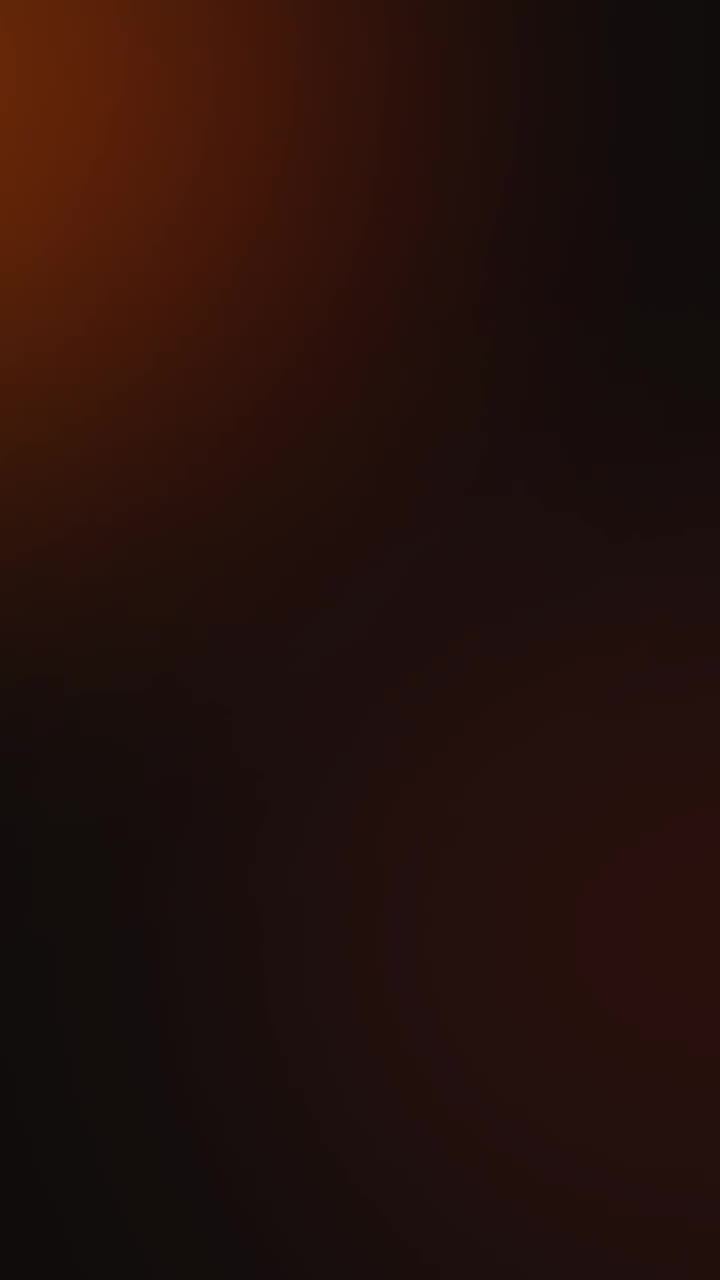
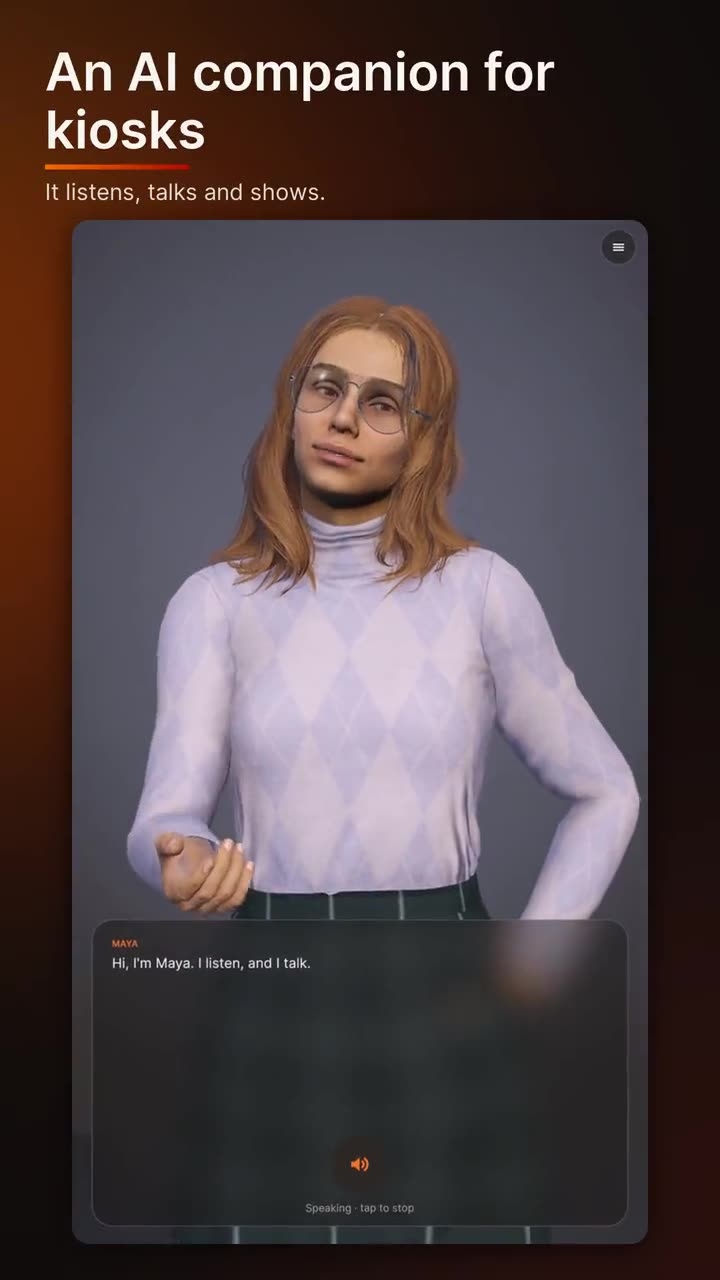
altbot: plain heading font, true video proportions
- headings use Inter Tight instead of Bricolage Grotesque
- hero promo and demo kiosk are exact 9:16 portrait screens
- landscape film is never cropped; new poster frames for both promos

Claude-Session: https://claude.ai/code/session_01HpiNXeb8rYUajQFhR8yF88

diff --git a/src/app/work/[slug]/altbot.css b/src/app/work/[slug]/altbot.css
@@ -3,6 +3,7 @@
    (dark glass + altcore orange) only ever appears inside a device frame,
    so it never mixes up with the page around it. */
 .ab{
+  --ab-head:"Inter Tight",Inter,"Helvetica Neue",Arial,sans-serif;--f-display:var(--ab-head);
   --bg:#f3f1ec;--surface:#ffffff;--surface2:#eeece6;--ink:#14161a;--muted:#5d626b;--line:rgba(20,22,26,.11);
   --acc:#2b50ff;--acc2:#7a3cff;--ok:#0f9d63;--stop:#d9342b;--tint:rgba(43,80,255,.07);--tint-line:rgba(43,80,255,.28);
   --grad:linear-gradient(120deg,var(--acc),var(--acc2));
@@ -20,7 +21,7 @@
   color-scheme:dark;color:var(--ink)
 }
 .ab-wrap{max-width:1200px;margin:0 auto;padding-left:max(16px,env(safe-area-inset-left,0px));padding-right:max(16px,env(safe-area-inset-right,0px))}
-.ab h1,.ab h2,.ab h3{font-family:"Bricolage Grotesque",var(--f-display);letter-spacing:-.035em;text-wrap:balance;margin:0}
+.ab h1,.ab h2,.ab h3{font-family:var(--ab-head);font-weight:700;letter-spacing:-.03em;text-wrap:balance;margin:0}
 .ab a:focus-visible,.ab button:focus-visible,.ab input:focus-visible,.ab [tabindex]:focus-visible{outline:2px solid var(--acc);outline-offset:3px}
 .ab-kick{display:inline-block;font-family:var(--f-mono);font-size:12px;letter-spacing:.14em;text-transform:uppercase;color:var(--acc)}
 .ab-crumbs{display:flex;justify-content:space-between;align-items:center;gap:12px;padding-top:22px;font-family:var(--f-mono);font-size:12px;color:var(--muted)}
@@ -28,20 +29,20 @@
 
 /* hero */
 .ab-hero{display:grid;grid-template-columns:minmax(0,1.15fr) minmax(0,.85fr);gap:clamp(28px,5vw,72px);align-items:center;padding-top:clamp(36px,6vw,80px);padding-bottom:clamp(32px,5vw,56px)}
-.ab-hero h1{font-size:clamp(40px,5.6vw,82px);line-height:.98;font-weight:800;margin-top:14px}
+.ab-hero h1{font-size:clamp(40px,5.6vw,82px);line-height:.98;font-weight:700;margin-top:14px}
 .ab-hero h1 em{font-style:normal;background:var(--grad);-webkit-background-clip:text;background-clip:text;color:transparent}
 .ab-lede{margin:22px 0 0;font-size:clamp(17px,1.5vw,20px);line-height:1.6;color:var(--muted);max-width:52ch}
 .ab-hero-cta{display:flex;flex-wrap:wrap;gap:10px;margin-top:28px}
 .ab-btn{display:inline-flex;align-items:center;text-decoration:none;font-weight:600;font-size:15px;padding:12px 20px;border-radius:99px;background:var(--grad);color:#fff}
 .ab-btn.ghost{background:transparent;color:var(--ink);box-shadow:inset 0 0 0 1.5px var(--line)}
-.ab-tv{position:relative;margin:0 auto;width:min(100%,380px);aspect-ratio:9/16;border-radius:26px;padding:10px;background:#050505;box-shadow:0 0 0 1px rgba(0,0,0,.4),0 40px 90px -30px rgba(20,22,40,.5)}
-.ab-tv img{width:100%;height:100%;object-fit:cover;border-radius:18px;display:block}
+.ab-tv{position:relative;margin:0 auto;width:min(100%,360px);border-radius:34px;padding:10px;background:#050505;box-shadow:0 0 0 1px rgba(0,0,0,.4),0 40px 90px -30px rgba(20,22,40,.5)}
+
 @keyframes ab-float{0%,100%{transform:translateY(0)}50%{transform:translateY(-8px)}}
 
 .ab-facts{display:grid;grid-template-columns:repeat(4,minmax(0,1fr));margin:0;border-radius:22px;background:var(--surface);box-shadow:0 0 0 1px var(--line);overflow:hidden}
 .ab-facts div{padding:22px 24px;border-right:1px solid var(--line)}
 .ab-facts div:last-child{border-right:0}
-.ab-facts dt{font-family:"Bricolage Grotesque",var(--f-display);font-weight:800;font-size:clamp(28px,3vw,40px);letter-spacing:-.04em;background:var(--grad);-webkit-background-clip:text;background-clip:text;color:transparent}
+.ab-facts dt{font-family:var(--ab-head);font-weight:700;font-size:clamp(28px,3vw,40px);letter-spacing:-.04em;background:var(--grad);-webkit-background-clip:text;background-clip:text;color:transparent}
 .ab-facts dd{margin:6px 0 0;font-size:14px;line-height:1.4;color:var(--muted)}
 .ab-meta{display:flex;flex-wrap:wrap;gap:10px 36px;margin:20px 4px 0;font-size:14px}
 .ab-meta dt{font-family:var(--f-mono);font-size:11px;text-transform:uppercase;letter-spacing:.1em;color:var(--muted)}
@@ -50,7 +51,7 @@
 /* sections */
 .ab-sec{padding-top:clamp(80px,11vw,140px)}
 .ab-head{display:grid;gap:12px;max-width:780px;margin-bottom:clamp(26px,3.4vw,44px)}
-.ab-head h2{font-size:clamp(32px,4.2vw,58px);line-height:1;font-weight:800}
+.ab-head h2{font-size:clamp(32px,4.2vw,58px);line-height:1;font-weight:700}
 .ab-head p{margin:4px 0 0;font-size:18px;line-height:1.65;color:var(--muted)}
 .ab-card{background:var(--surface);border-radius:20px;padding:22px 24px;box-shadow:0 0 0 1px var(--line)}
 .ab-card h3{font-size:20px;font-weight:700;margin-bottom:8px}
@@ -68,7 +69,7 @@
 .ab-seg button.on{background:var(--grad);color:#fff;font-weight:600}
 .ab-demo-grid{display:grid;grid-template-columns:minmax(0,420px) minmax(0,1fr);gap:10px 16px;align-items:stretch}
 
-.ab-stage{position:relative;aspect-ratio:9/14;border-radius:24px;overflow:hidden;background:#24222a;box-shadow:0 0 0 10px #0b0b0c,0 0 0 11px rgba(0,0,0,.25),0 40px 80px -30px rgba(20,22,40,.6);margin:10px;display:flex;flex-direction:column;justify-content:flex-end}
+.ab-stage{position:relative;aspect-ratio:9/16;border-radius:24px;overflow:hidden;background:#24222a;box-shadow:0 0 0 10px #0b0b0c,0 0 0 11px rgba(0,0,0,.25),0 40px 80px -30px rgba(20,22,40,.6);margin:10px;display:flex;flex-direction:column;justify-content:flex-end}
 .ab-stage-bg{position:absolute;inset:0;background:url(/work/altbot/kiosk.webp) center 8%/cover no-repeat;transition:transform 1s cubic-bezier(.3,.8,.3,1),filter .6s}
 .ab-stage.room .ab-stage-bg{transform:translateY(20%) scale(.92);filter:brightness(.8)}
 .ab-stage.st-listening .ab-stage-bg{filter:brightness(1.05)}
@@ -80,7 +81,7 @@
 .ab-x{position:absolute;top:6px;right:8px;z-index:2;border:0;background:rgba(255,255,255,.1);color:var(--ink);width:28px;height:28px;border-radius:50%;cursor:pointer;font-size:16px;line-height:1}
 .ab-slide{aspect-ratio:16/9;border-radius:12px;padding:16px;display:grid;align-content:end;gap:4px;color:#1b1410}
 .ab-slide small{font-family:var(--f-mono);font-size:10px;opacity:.7;align-self:start;margin-bottom:auto}
-.ab-slide b{font-family:"Bricolage Grotesque",var(--f-display);font-size:26px;letter-spacing:-.03em;line-height:1}
+.ab-slide b{font-family:var(--ab-head);font-size:26px;letter-spacing:-.03em;line-height:1}
 .ab-slide span{font-size:12px}
 .ab-slide.s1{background:linear-gradient(135deg,#f4e6d4,#e8c9a5)}
 .ab-slide.s2{background:linear-gradient(135deg,#cfd9c7,#9fb391)}
@@ -88,7 +89,7 @@
 .ab-panel-nav{display:flex;align-items:center;justify-content:space-between;margin-top:8px;font-family:var(--f-mono);font-size:10px;color:var(--muted)}
 .ab-panel-nav button{border:0;background:rgba(255,255,255,.1);color:var(--ink);width:32px;height:32px;border-radius:50%;cursor:pointer;font-size:18px}
 .ab-form{display:grid;gap:8px;font-size:12px}
-.ab-form b{font-size:17px;font-family:"Bricolage Grotesque",var(--f-display)}
+.ab-form b{font-size:17px;font-family:var(--ab-head)}
 .ab-form label{display:grid;gap:4px;color:var(--muted)}
 .ab-form input{font:inherit;font-size:14px;color:var(--ink);background:rgba(255,255,255,.07);border:1px solid var(--line);border-radius:10px;padding:9px 10px;min-height:40px}
 .ab-form button{border:0;border-radius:99px;background:var(--grad);color:#fff;font:inherit;font-weight:600;font-size:14px;padding:10px;cursor:pointer;min-height:40px}
@@ -148,13 +149,13 @@
 .ab-offline .ab-head h2{font-size:clamp(34px,4.8vw,66px)}
 .ab-numbers{display:grid;grid-template-columns:repeat(4,minmax(0,1fr));gap:12px;margin-top:clamp(36px,5vw,56px)}
 .ab-numbers div{padding:20px;border-radius:18px;background:var(--tint);box-shadow:inset 0 0 0 1px var(--tint-line)}
-.ab-numbers b{display:block;font-family:"Bricolage Grotesque",var(--f-display);font-size:clamp(26px,2.8vw,36px);letter-spacing:-.04em}
+.ab-numbers b{display:block;font-family:var(--ab-head);font-size:clamp(26px,2.8vw,36px);letter-spacing:-.04em}
 .ab-numbers span{font-size:13px;color:var(--muted)}
 
 /* gate */
 .ab-gate{list-style:none;margin:0;padding:0;display:grid;gap:12px}
 .ab-gate li{display:grid;grid-template-columns:44px 1fr;gap:16px;padding:20px;border-radius:20px;background:var(--surface);box-shadow:0 0 0 1px var(--line)}
-.ab-gate li>span{width:44px;height:44px;border-radius:14px;display:grid;place-items:center;background:var(--grad);color:#fff;font-family:"Bricolage Grotesque",var(--f-display);font-weight:800;font-size:20px}
+.ab-gate li>span{width:44px;height:44px;border-radius:14px;display:grid;place-items:center;background:var(--grad);color:#fff;font-family:var(--ab-head);font-weight:700;font-size:20px}
 .ab-gate h3{font-size:20px;margin-bottom:6px}
 .ab-gate p{margin:0;font-size:15px;line-height:1.6;color:var(--muted)}
 
@@ -203,7 +204,7 @@
   .ab-hero,.ab-split{grid-template-columns:minmax(0,1fr)}
   .ab-tv{width:min(78%,340px)}
   .ab-demo-grid{grid-template-columns:minmax(0,1fr)}
-  .ab-stage{max-width:420px;width:calc(100% - 20px);margin:10px auto;aspect-ratio:9/15}
+  .ab-stage{max-width:420px;width:calc(100% - 20px);margin:10px auto;aspect-ratio:9/16}
   .ab-col-tag.app,.ab-col-tag.site,.ab-demo-grid>.ab-stage,.ab-demo-grid>.ab-trace,.ab-demo-grid>.ab-chips{grid-column:1;grid-row:auto}
   .ab-col-tag.site{display:none}
   .ab-col-tag.site{padding-left:12px;margin-top:18px}
@@ -227,7 +228,7 @@
 .ab-film-bar{display:flex;flex-wrap:wrap;align-items:center;gap:10px 18px}
 .ab-film-bar p{margin:0;font-size:14px;color:var(--muted)}
 .ab-film-frame{position:relative;margin:10px;border-radius:20px;overflow:hidden;background:#0b0b0c;aspect-ratio:16/9;box-shadow:0 0 0 10px #0b0b0c,0 0 0 11px rgba(0,0,0,.25),0 40px 80px -30px rgba(20,22,40,.6)}
-.ab-film-frame video{display:block;width:100%;height:100%;object-fit:cover;background:#0b0b0c}
+.ab-film-frame video{display:block;width:100%;height:100%;object-fit:contain;background:#0b0b0c}
 .ab-film-chapters{list-style:none;margin:0 10px;padding:0;display:flex;flex-wrap:wrap;gap:8px}
 .ab-film-chapters button{border:0;font:inherit;font-size:14px;padding:8px 14px 8px 10px;border-radius:99px;background:var(--surface);color:var(--ink);box-shadow:inset 0 0 0 1px var(--line);cursor:pointer;min-height:40px;display:inline-flex;align-items:center;gap:8px}
 .ab-film-chapters small{font-family:var(--f-mono);font-size:11px;color:var(--muted)}
@@ -257,7 +258,7 @@
 .ab-hero .ab-meta{margin:34px 0 0;padding-top:20px;border-top:1px solid var(--line)}
 
 /* hero promo */
-.ab-tv video{width:100%;height:100%;object-fit:cover;border-radius:18px;display:block;cursor:pointer;background:#111}
+.ab-tv video{width:100%;height:auto;aspect-ratio:9/16;object-fit:contain;border-radius:25px;display:block;cursor:pointer;background:#111}
 .ab-tv-sound{position:absolute;left:50%;bottom:24px;transform:translateX(-50%);display:inline-flex;align-items:center;gap:8px;border:0;font:inherit;font-size:13px;font-weight:600;white-space:nowrap;padding:9px 16px;border-radius:99px;background:rgba(255,255,255,.94);color:#14161a;cursor:pointer;box-shadow:0 10px 26px -10px rgba(0,0,0,.7)}
 .ab-tv-sound svg{width:16px;height:16px}
 
@@ -267,7 +268,7 @@
 .ab-steps li{position:relative;padding:26px 20px 0 0;border-top:2px solid var(--line);display:grid;align-content:start}
 .ab-steps li::before{content:"";position:absolute;top:-7px;left:0;width:12px;height:12px;border-radius:50%;background:var(--bg);box-shadow:inset 0 0 0 3px var(--acc)}
 .ab-steps .n{font-family:var(--f-mono);font-size:11px;color:var(--muted);margin-bottom:10px}
-.ab-steps .fig{font-family:"Bricolage Grotesque",var(--f-display);font-weight:800;font-size:clamp(26px,2.3vw,34px);line-height:1;letter-spacing:-.04em;white-space:nowrap;background:var(--grad);-webkit-background-clip:text;background-clip:text;color:transparent;justify-self:start}
+.ab-steps .fig{font-family:var(--ab-head);font-weight:700;font-size:clamp(26px,2.3vw,34px);line-height:1;letter-spacing:-.04em;white-space:nowrap;background:var(--grad);-webkit-background-clip:text;background-clip:text;color:transparent;justify-self:start}
 .ab-steps small{font-family:var(--f-mono);font-size:10.5px;color:var(--muted);margin-top:5px}
 .ab-steps h3{font-size:17px;font-weight:700;margin-top:16px;letter-spacing:-.02em}
 .ab-steps p{margin:6px 0 0;font-size:13.5px;line-height:1.5;color:var(--muted)}
@@ -302,7 +303,7 @@
 .ab-chips{display:flex;flex-wrap:wrap;gap:10px;padding:20px 22px 22px;border-radius:24px;background:var(--surface);box-shadow:0 0 0 1px var(--tint-line),0 26px 50px -38px rgba(43,80,255,.7)}
 .ab-chips-lead{flex-basis:100%;margin:0 0 6px;display:flex;flex-wrap:wrap;align-items:center;gap:6px 10px;font-size:14px;color:var(--muted)}
 .ab-chips-lead svg{width:20px;height:20px;color:var(--acc)}
-.ab-chips-lead b{font-family:"Bricolage Grotesque",var(--f-display);font-size:21px;letter-spacing:-.03em;color:var(--ink)}
+.ab-chips-lead b{font-family:var(--ab-head);font-size:21px;letter-spacing:-.03em;color:var(--ink)}
 .ab-chips button{border:0;font:inherit;font-size:15px;font-weight:550;padding:12px 18px;border-radius:14px;background:var(--surface2);color:var(--ink);cursor:pointer;min-height:46px;display:inline-flex;align-items:center;gap:8px;text-align:left;transition:transform .15s,background .15s,color .15s}
 .ab-chips button:hover:not(:disabled){transform:translateY(-2px);background:var(--ink);color:#fff}
 .ab-chips button:disabled{opacity:.45;cursor:default}
@@ -322,7 +323,7 @@
 .ab-pipe li{display:flex;flex-direction:column;gap:8px;padding:22px;border-radius:20px;background:var(--surface);box-shadow:inset 0 0 0 1px var(--line)}
 .ab-pipe-top{display:flex;justify-content:space-between;align-items:center;margin-bottom:8px}
 .ab-pipe-n{font-family:var(--f-mono);font-size:12px;color:var(--muted)}
-.ab-pipe h3{font-size:24px;font-weight:800}
+.ab-pipe h3{font-size:24px;font-weight:700}
 .ab-pipe p{margin:0;font-size:15px;line-height:1.55;color:var(--muted);flex:1}
 .ab-pipe code{display:flex;align-items:center;gap:8px;margin-top:8px;padding-top:14px;border-top:1px solid var(--line);font-family:var(--f-mono);font-size:12px;color:var(--acc)}
 .ab-pipe code svg{width:15px;height:15px}
@@ -343,7 +344,7 @@
 .ab-ed-grid li{display:grid;gap:10px;align-content:start;padding:20px;border-radius:20px;background:var(--surface);box-shadow:0 0 0 1px var(--line);min-height:168px;transition:box-shadow .3s}
 .ab-ed-grid li:nth-child(6){grid-column:span 2}
 .ab-ed-grid small{font-family:var(--f-mono);font-size:11px;letter-spacing:.08em;text-transform:uppercase;color:var(--muted)}
-.ab-ed-grid b{font-family:"Bricolage Grotesque",var(--f-display);font-size:19px;line-height:1.25;letter-spacing:-.02em;animation:ab-fade .35s both}
+.ab-ed-grid b{font-family:var(--ab-head);font-size:19px;line-height:1.25;letter-spacing:-.02em;animation:ab-fade .35s both}
 .ab-ed.online li:not(.same){box-shadow:0 0 0 1px var(--tint-line)}
 .ab-ed.online li:not(.same) .ab-ico{background:var(--grad);color:#fff;box-shadow:none}
 
@@ -365,7 +366,7 @@
 .ab-tour-inline{display:none}
 .ab-tour-copy{max-width:520px}
 .ab-tour-tag{display:inline-flex;align-items:center;gap:12px;font-family:var(--f-mono);font-size:11px;letter-spacing:.12em;text-transform:uppercase;color:var(--acc)}
-.ab-tour-copy h3{font-size:clamp(28px,3.2vw,42px);line-height:1.02;font-weight:800;margin-top:16px}
+.ab-tour-copy h3{font-size:clamp(28px,3.2vw,42px);line-height:1.02;font-weight:700;margin-top:16px}
 .ab-tour-copy .what{margin:12px 0 0;font-size:18px;line-height:1.55}
 .ab-tour-copy dl{margin:22px 0 0;display:grid;gap:16px}
 .ab-tour-copy dl div{padding-left:16px;border-left:2px solid var(--tint-line)}
@@ -388,7 +389,7 @@
 .ab-cast img{width:100%;height:100%;object-fit:cover;object-position:50% 0;display:block;transition:transform .6s cubic-bezier(.2,.9,.3,1)}
 .ab-cast li:hover img{transform:scale(1.05)}
 .ab-cast li>div{position:absolute;left:0;right:0;bottom:0;padding:44px 14px 14px;display:grid;gap:5px;justify-items:start;color:#fff;background:linear-gradient(180deg,transparent,rgba(8,8,12,.9) 62%)}
-.ab-cast b{font-family:"Bricolage Grotesque",var(--f-display);font-size:23px;letter-spacing:-.03em;line-height:1}
+.ab-cast b{font-family:var(--ab-head);font-size:23px;letter-spacing:-.03em;line-height:1}
 .ab-cast span{font-size:11.5px;font-weight:600;padding:3px 9px;border-radius:99px;background:rgba(255,255,255,.16)}
 .ab-cast span.open{background:#ff6a1a}
 .ab-cast small{font-family:var(--f-mono);font-size:10px;color:rgba(255,255,255,.7)}
